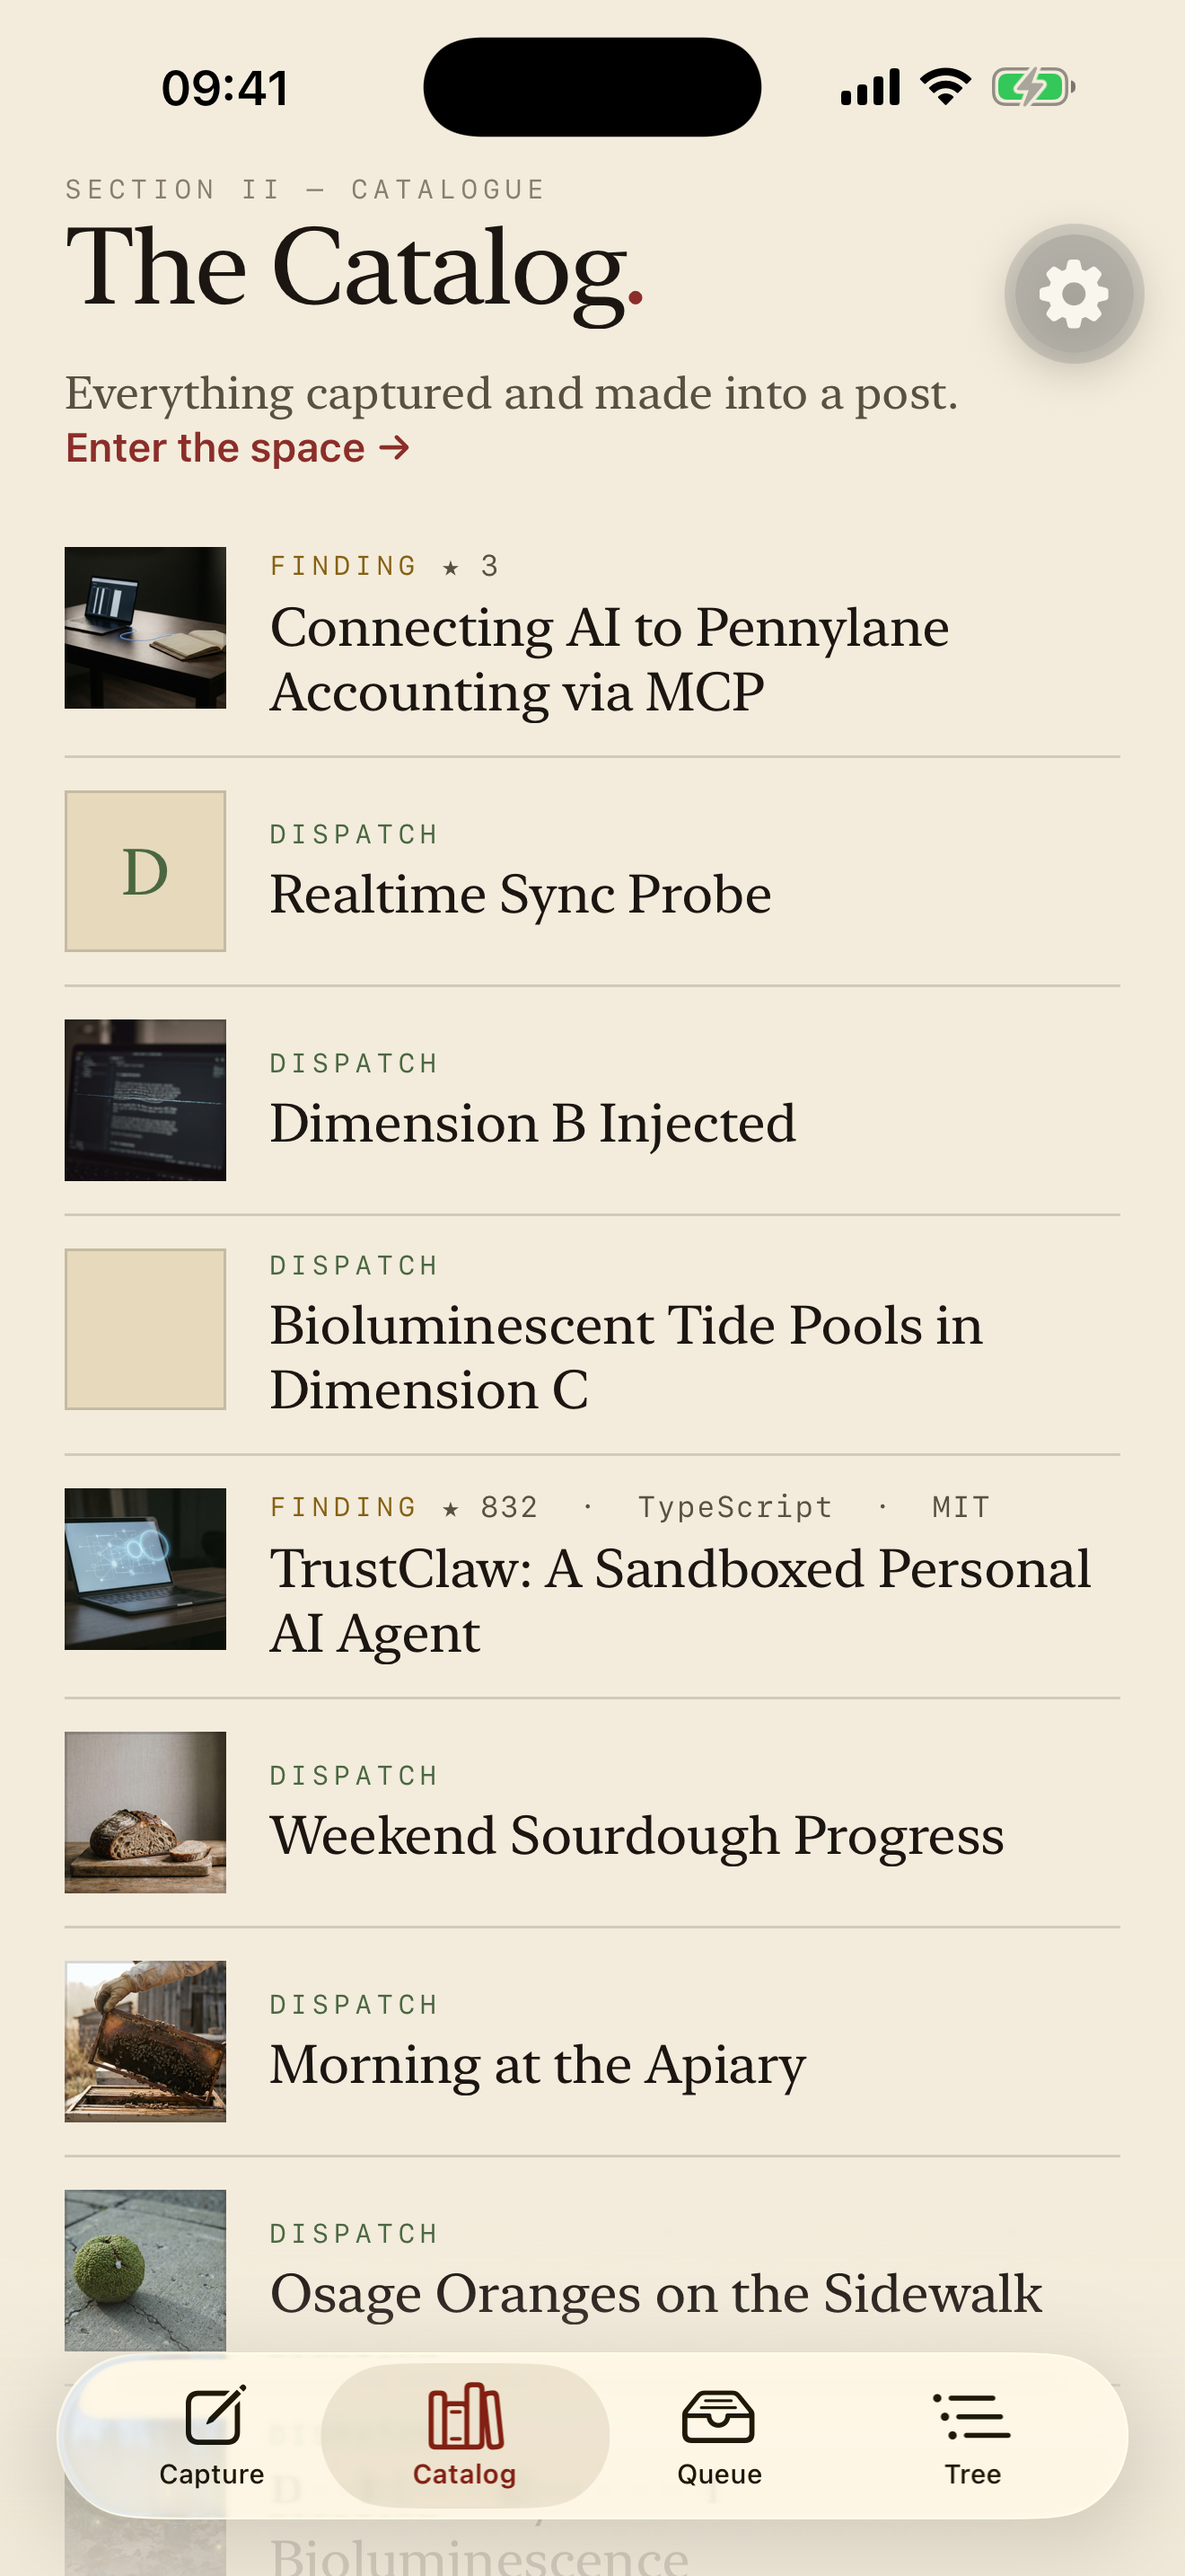
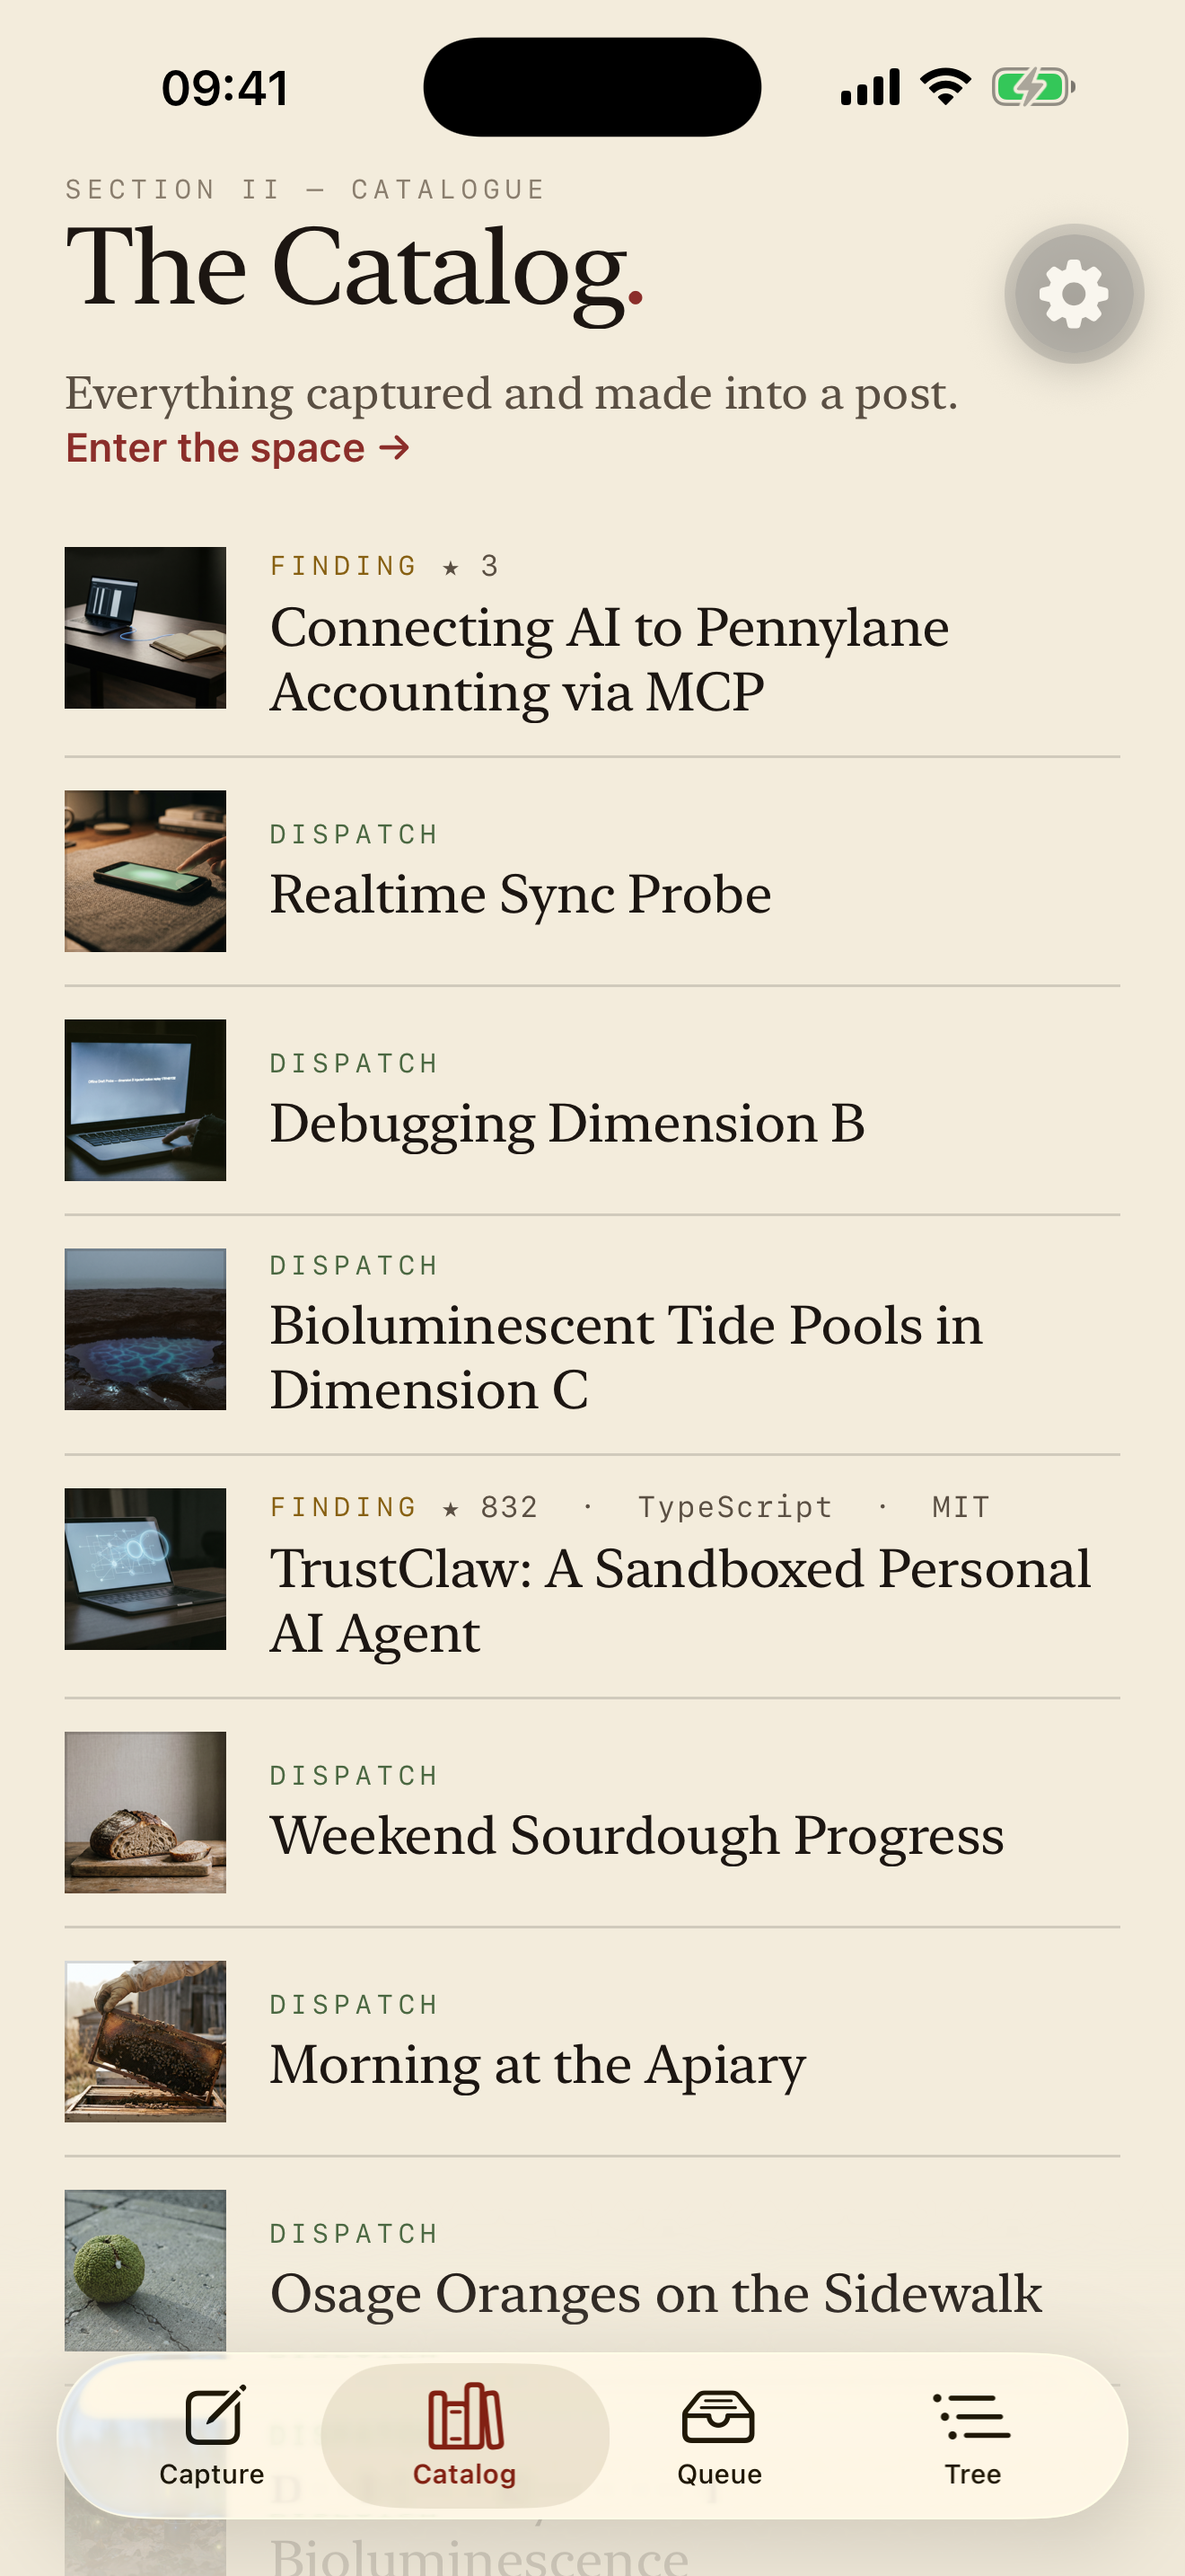
random things

Changed region(s): [[0.0311, 0.2793, 0.2174, 0.5586], [0.2795, 0.4344, 0.6833, 0.4655]]

diff --git a/apps/worker/src/scripts/backfill-cover-images.ts b/apps/worker/src/scripts/backfill-cover-images.ts
@@ -1,25 +1,52 @@
-// One-time backfill: generate editorial cover images for existing posts that
-// have no imageUrl, so the whole catalog grid shows something. New posts get
+// One-time backfill: generate editorial cover images for existing posts whose
+// cover is broken, so the whole catalog grid shows something. New posts get
 // covers inline in the worker pipeline (post-writer.ts → image-generator.ts);
 // this script fills the gap for everything ingested before that landed.
 //
-// Posts with a SIGHT gallery already have imageUrl set to images[0].url, so the
-// `imageUrl: null` filter alone targets exactly the imageless BLOG/FINDING set.
+// A post's cover is considered "broken" when either:
+//   • imageUrl is null (notes → BLOG, plain-URL → FINDING never got a cover), OR
+//   • imageUrl points to a LOCAL path (/social/… or /sight/…) whose file is no
+//     longer on disk — e.g. a render that was lost or never persisted. The plain
+//     `imageUrl: null` filter misses this second class, so the catalog shows a
+//     blank card even though the row "has" an imageUrl.
+// Remote (http) imageUrls are left alone — we can't cheaply verify them and they
+// don't live under our docroot.
 //
 // Run from apps/worker/ (cwd assumption shared with resolveSocialDir):
 //   bun run src/scripts/backfill-cover-images.ts --dry-run --limit=3
 //   bun run src/scripts/backfill-cover-images.ts --limit=20
-//   bun run src/scripts/backfill-cover-images.ts            # all
+//   bun run src/scripts/backfill-cover-images.ts                  # all users
+//   bun run src/scripts/backfill-cover-images.ts --user=a@b.com   # one owner
 //
 // Flags:
 //   --dry-run        list the posts that would get a cover; generate nothing
 //   --limit=N        cap how many posts to process (newest first)
 //   --sleep=MS       delay between renders (default 1500ms; be kind to the API)
 //   --exclude=a,b,c  skip these exact slugs (e.g. throwaway test/QA posts)
+//   --user=EMAIL     only this owner's posts (matches Post.submittedBy.email)
 
+import { existsSync } from "node:fs";
+import { resolve } from "node:path";
 import { prisma } from "@repo/db";
 import { revalidatePost } from "../lib/revalidate";
 import { generateCoverImage } from "../pipeline/image-generator";
+
+// Local imageUrls are served from apps/web/public/<path>. Mirror the cwd
+// assumption that resolveSocialDir/resolveSightDir make so missing-file
+// detection lines up with where the worker actually writes covers.
+const PUBLIC_DIR = resolve(process.cwd(), "..", "web", "public");
+
+// True when a post needs a (re)generated cover: no url at all, or a local path
+// whose file has gone missing. Remote http(s) urls are assumed live.
+function coverIsBroken(imageUrl: string | null): boolean {
+  if (!imageUrl) {
+    return true;
+  }
+  if (imageUrl.startsWith("/")) {
+    return !existsSync(resolve(PUBLIC_DIR, imageUrl.slice(1)));
+  }
+  return false;
+}
 
 function color(code: number, text: string): string {
   return `\x1b[${code}m${text}\x1b[0m`;
@@ -35,12 +62,14 @@ type Args = {
   limit: number | null;
   sleepMs: number;
   exclude: Set<string>;
+  userEmail: string | null;
 };
 
 function parseArgs(argv: string[]): Args {
   let dryRun = false;
   let limit: number | null = null;
   let sleepMs = 1500;
+  let userEmail: string | null = null;
   const exclude = new Set<string>();
   for (const arg of argv) {
     if (arg === "--dry-run") {
@@ -56,9 +85,12 @@ function parseArgs(argv: string[]): Args {
         const s = slug.trim();
         if (s) exclude.add(s);
       }
+    } else if (arg.startsWith("--user=")) {
+      const e = arg.slice("--user=".length).trim();
+      userEmail = e || null;
     }
   }
-  return { dryRun, limit, sleepMs, exclude };
+  return { dryRun, limit, sleepMs, exclude, userEmail };
 }
 
 function sleep(ms: number): Promise<void> {
@@ -70,12 +102,29 @@ async function main(): Promise<void> {
   console.log(
     bold("\nBackfill cover images") +
       dim(
-        ` — ${args.dryRun ? "DRY RUN" : "LIVE"}, limit=${args.limit ?? "none"}, sleep=${args.sleepMs}ms\n`
+        ` — ${args.dryRun ? "DRY RUN" : "LIVE"}, user=${args.userEmail ?? "all"}, limit=${args.limit ?? "none"}, sleep=${args.sleepMs}ms\n`
       )
   );
 
-  const allImageless = await prisma.post.findMany({
-    where: { imageUrl: null },
+  // Resolve the owner filter up front so a typo'd email fails loudly instead of
+  // silently backfilling nothing.
+  let submittedById: string | undefined;
+  if (args.userEmail) {
+    const owner = await prisma.user.findFirst({
+      where: { email: args.userEmail },
+      select: { id: true },
+    });
+    if (!owner) {
+      console.error(red(`No user found with email ${args.userEmail}.`));
+      process.exit(1);
+    }
+    submittedById = owner.id;
+  }
+
+  // Fetch the candidate set (optionally owner-scoped), then keep only posts
+  // whose cover is broken — null imageUrl OR a local path missing on disk.
+  const candidates = await prisma.post.findMany({
+    where: submittedById ? { submittedById } : {},
     select: {
       id: true,
       slug: true,
@@ -83,15 +132,17 @@ async function main(): Promise<void> {
       excerpt: true,
       content: true,
       type: true,
+      imageUrl: true,
       tags: { select: { name: true } },
     },
     orderBy: { createdAt: "desc" },
   });
+  const broken = candidates.filter((p) => coverIsBroken(p.imageUrl));
 
   // Exact-slug exclusions (throwaway test/QA posts) are filtered before the
   // limit so --limit counts real targets, not skipped ones.
-  const excludedHits = allImageless.filter((p) => args.exclude.has(p.slug));
-  let posts = allImageless.filter((p) => !args.exclude.has(p.slug));
+  const excludedHits = broken.filter((p) => args.exclude.has(p.slug));
+  let posts = broken.filter((p) => !args.exclude.has(p.slug));
   if (args.limit) {
     posts = posts.slice(0, args.limit);
   }
@@ -111,7 +162,8 @@ async function main(): Promise<void> {
   let filled = 0;
   let failed = 0;
   for (const post of posts) {
-    const head = `${dim(post.type.padEnd(8))} ${post.slug}`;
+    const reason = post.imageUrl ? "missing file" : "no url";
+    const head = `${dim(post.type.padEnd(8))} ${post.slug} ${dim(`(${reason})`)}`;
     if (args.dryRun) {
       console.log(`${yellow("·")} ${head} ${dim("— would generate")}`);
       continue;
